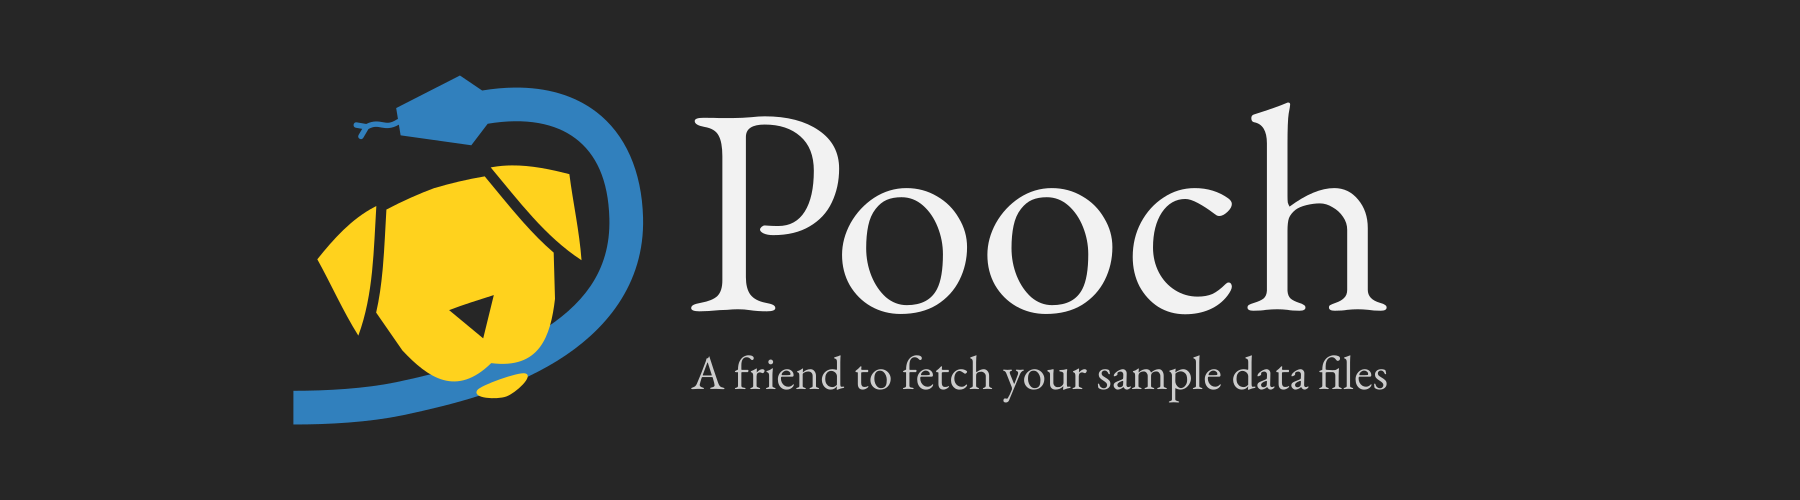
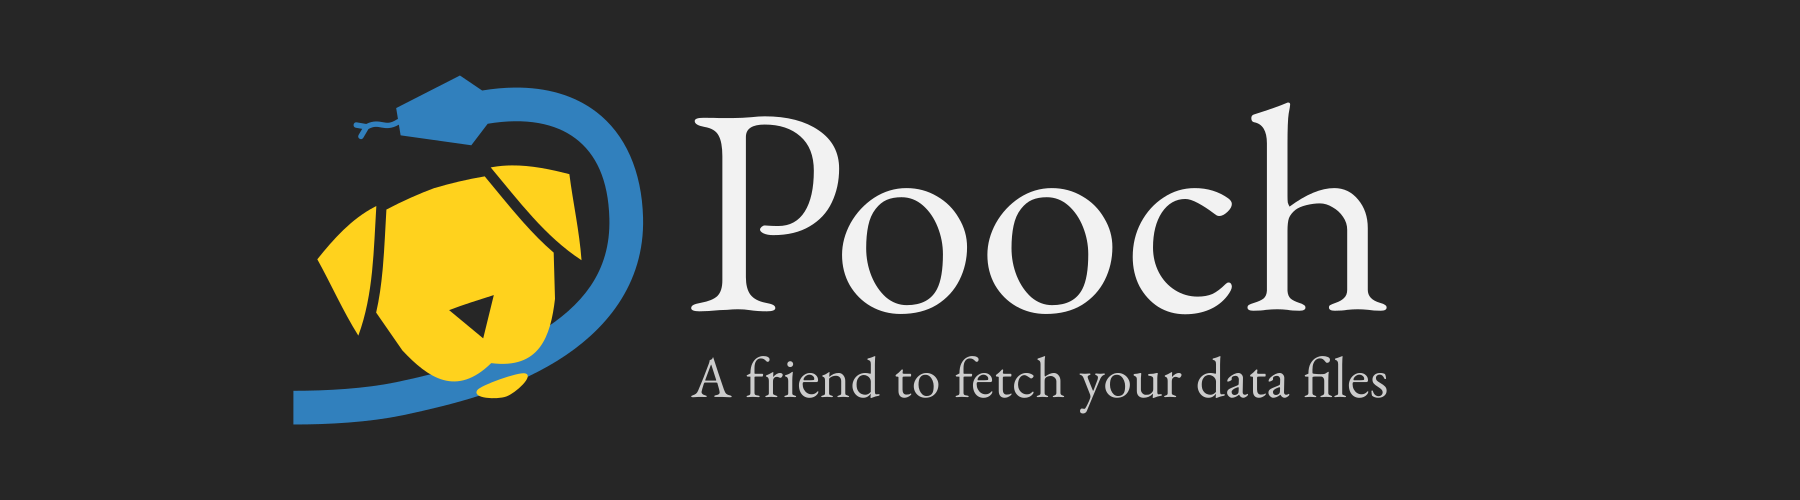
Add changelog for v0.7.0  (#126)
Includes link to new version docs in the README, reserved DOI from
Zenodo, update banner slogan, and use the README banner in the 
front page instead of yet another banner to maintain.

Changed region(s): [[0.3733, 0.69, 0.7778, 0.81]]

diff --git a/doc/changes.rst b/doc/changes.rst
@@ -3,6 +3,55 @@
 Changelog
 =========
 
+Version 0.7.0
+-------------
+
+*Released on: 2019/11/19*
+
+.. image:: https://img.shields.io/badge/doi-10.5281%2fzenodo.3547640-blue.svg?style=flat-square
+    :alt: Digital Object Identifier for the Zenodo archive
+    :target: https://doi.org/10.5281/zenodo.3547640
+
+New features:
+
+* New ``pooch.FTPDownloader`` class for downloading files over FTP. Uses the
+  standard library ``ftplib``. The appropriate downloader is automatically
+  selected by ``pooch.Pooch.fetch`` based on the URL (for anonymous FTP only),
+  so no configuration is required.
+  If authentication is required, ``pooch.FTPDownloader`` provides the need
+  support. Ported from
+  `NCAR/aletheia-data <https://github.com/NCAR/aletheia-data>`__ by the author.
+  (`#118 <https://github.com/fatiando/pooch/pull/118>`__)
+* Support for file-like objects to ``Pooch.load_registry`` (opened either in
+  binary or text mode).
+  (`#117 <https://github.com/fatiando/pooch/pull/117>`__)
+
+Maintenance:
+
+* Testing and official support for Python 3.8.
+  (`#113 <https://github.com/fatiando/pooch/pull/113>`__)
+* 🚨 **Drop support for Python 2.7.** 🚨 Remove conditional dependencies and CI
+  jobs.
+  (`#100 <https://github.com/fatiando/pooch/pull/100>`__)
+
+Documentation:
+
+* In the tutorial, use ``pkg_resources.resource_stream()`` from setuptools to
+  load the ``registry.txt`` file. It's less error-prone than using ``os.path``
+  and ``__file__`` and allows the package to work from zip files.
+  (`#120 <https://github.com/fatiando/pooch/pull/120>`__)
+* Docstrings formatted to 79 characters (instead of 88) for better rendering in
+  Jupyter notebooks and IPython. These displays are limited to 80 chars so the
+  longer lines made the docstring unreadable.
+  (`#123 <https://github.com/fatiando/pooch/pull/123>`__)
+
+This release contains contributions from:
+
+* Anderson Banihirwe
+* Hugo van Kemenade
+* Remi Rampin
+* Leonardo Uieda
+
 Version 0.6.0
 -------------
 

diff --git a/doc/index.rst b/doc/index.rst
@@ -2,9 +2,8 @@
 .. raw:: html
 
     <div class="banner">
-        <img src="_static/banner.svg" alt="Pooch">
-        <h2>A friend to fetch you sample data files</h2>
-        <p>A part of the <a href="https://www.fatiando.org/">Fatiando a Terra</a> project.</p>
+        <img src="_static/readme-banner.png" alt="Pooch">
+        <h2>A part of the <a href="https://www.fatiando.org/">Fatiando a Terra</a> project.</h2>
     </div>
 
 .. include:: ../README.rst

diff --git a/README.rst b/README.rst
@@ -217,6 +217,7 @@ Documentation for other versions
 * `Development <https://www.fatiando.org/pooch/dev>`__ (reflects the *master* branch on
   Github)
 * `Latest release <https://www.fatiando.org/pooch/latest>`__
+* `v0.7.0 <https://www.fatiando.org/pooch/v0.7.0>`__
 * `v0.6.0 <https://www.fatiando.org/pooch/v0.6.0>`__
 * `v0.5.2 <https://www.fatiando.org/pooch/v0.5.2>`__
 * `v0.5.1 <https://www.fatiando.org/pooch/v0.5.1>`__
